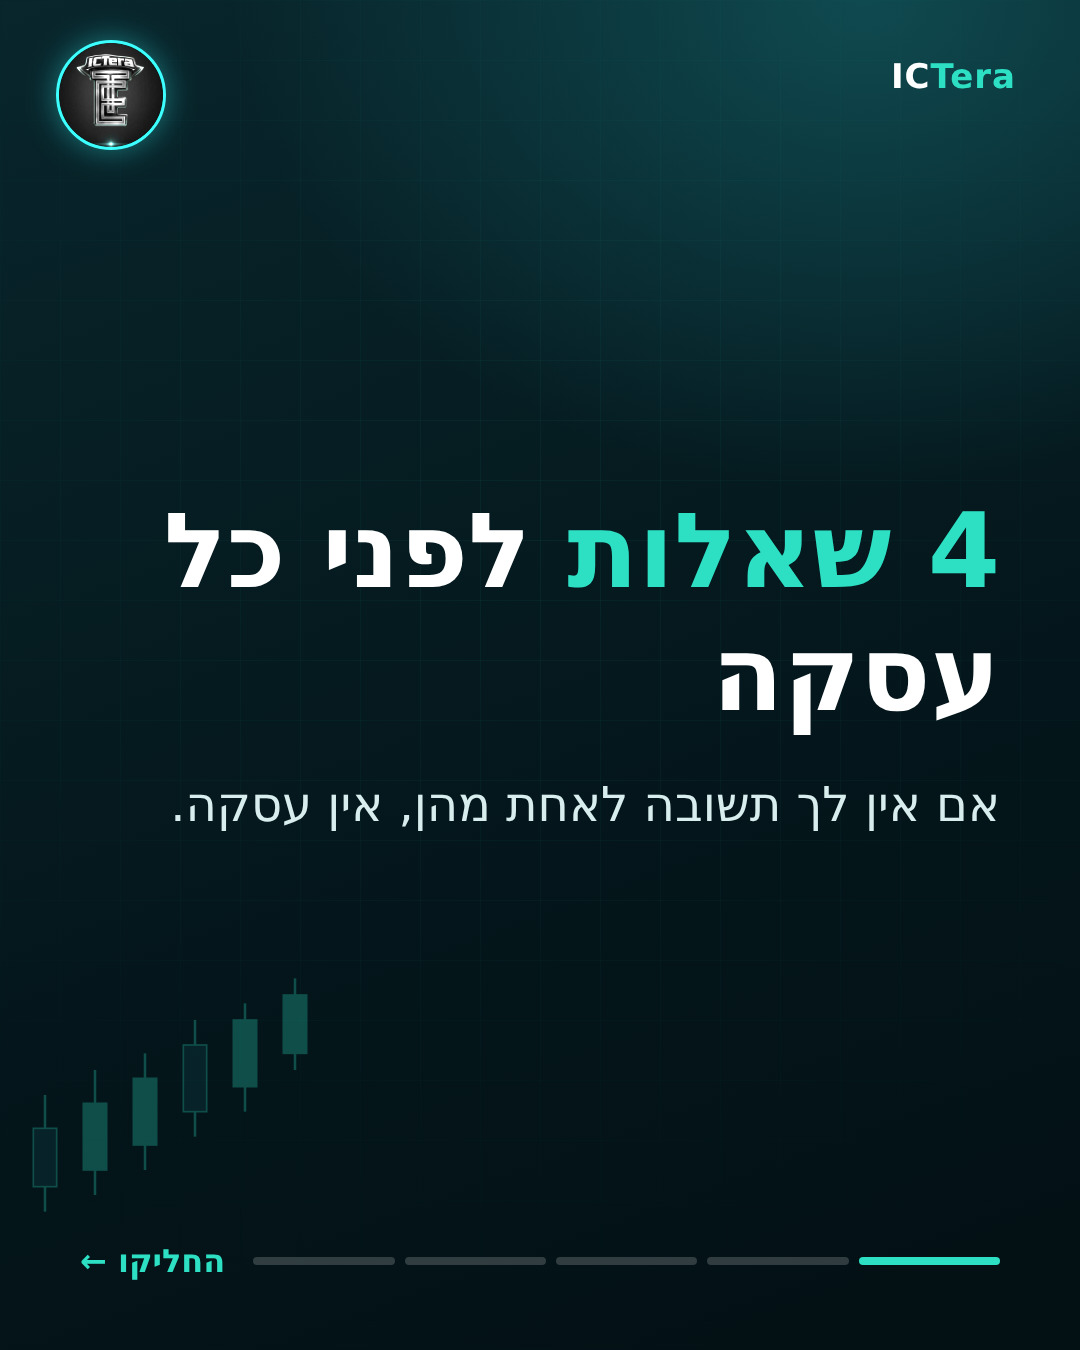
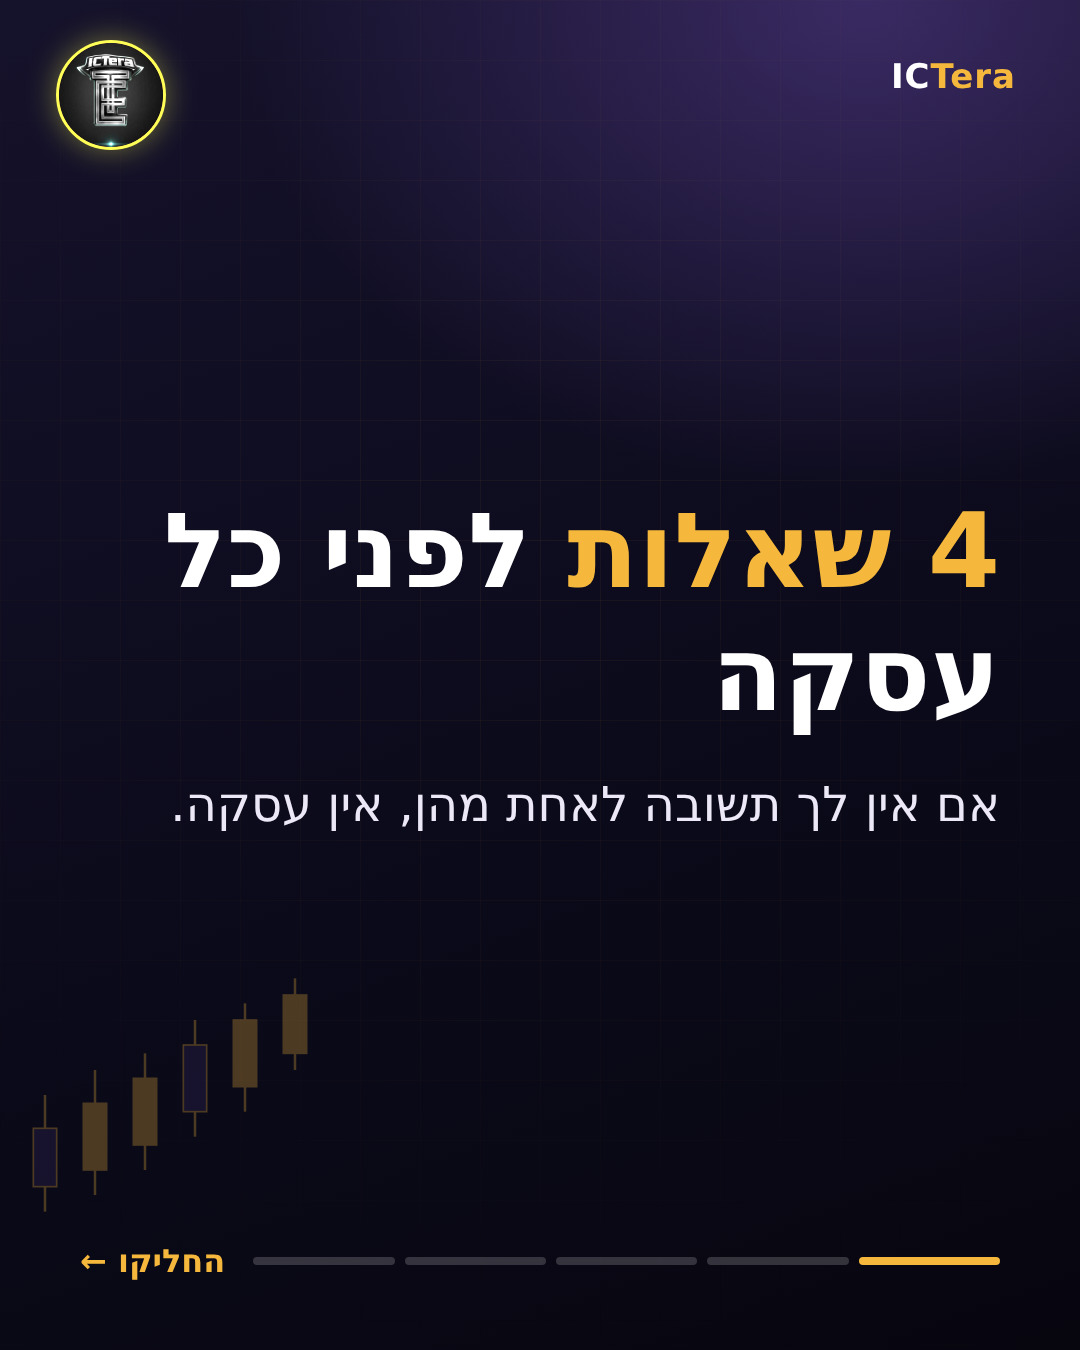
Carousel 20261203: switch to navy-violet + gold theme, add theme support to builder
Claude-Session: https://claude.ai/code/session_018HvefDmxtXLaRdqFCgLuNg

diff --git a/tools/build_carousel.py b/tools/build_carousel.py
@@ -21,6 +21,7 @@ def em(s):  # **word** -> teal
     for i, p in enumerate(parts): out += f'<b class="t">{p}</b>' if i % 2 else p
     return out
 
+TH = SPEC.get("theme", {"a":"#2de0c4","rgb":"45,224,196","glow":"#0f4a50","b1":"#08262c","b2":"#04161b","b3":"#031014","ink":"#04161b","sub":"#d8eeee","mut":"#8fb4b4"})
 CSS = """
 *{margin:0;box-sizing:border-box}
 body{width:1080px;height:1350px;direction:rtl;font-family:'DejaVu Sans','Liberation Sans',sans-serif;color:#fff;
@@ -47,8 +48,10 @@ p{font-size:48px;line-height:1.45;color:#d8eeee}
 .bars{flex:1;display:flex;gap:10px}.bars span{flex:1;height:8px;border-radius:4px;background:rgba(255,255,255,.18)}.bars span.on{background:#2de0c4}
 .sw{font-size:32px;color:#2de0c4;font-weight:700}
 """
+for k,v in {"#2de0c4":"{a}","45,224,196":"{rgb}","#0f4a50":"{glow}","#08262c":"{b1}","#04161b":"{b2}","#031014":"{b3}","#d8eeee":"{sub}","#8fb4b4":"{mut}"}.items():
+    CSS=CSS.replace(k,v.format(**TH)) if False else CSS.replace(k,TH[v[1:-1]])
 CANDLES = '<svg class="candles" viewBox="0 0 360 300">' + "".join(
-    f'<line x1="{x}" y1="{y1}" x2="{x}" y2="{y2}" stroke="#2de0c4" stroke-width="3"/><rect x="{x-14}" y="{a}" width="28" height="{b-a}" fill="{"#2de0c4" if up else "#0f4a50"}" stroke="#2de0c4" stroke-width="2"/>'
+    f'<line x1="{x}" y1="{y1}" x2="{x}" y2="{y2}" stroke="{TH["a"]}" stroke-width="3"/><rect x="{x-14}" y="{a}" width="28" height="{b-a}" fill="{TH["a"] if up else TH["glow"]}" stroke="{TH["a"]}" stroke-width="2"/>'
     for x, y1, y2, a, b, up in [(30,150,290,190,260,0),(90,120,270,160,240,1),(150,100,240,130,210,1),(210,60,200,90,170,0),(270,40,170,60,140,1),(330,10,120,30,100,1)]) + "</svg>"
 
 def slide(i, n, body):
